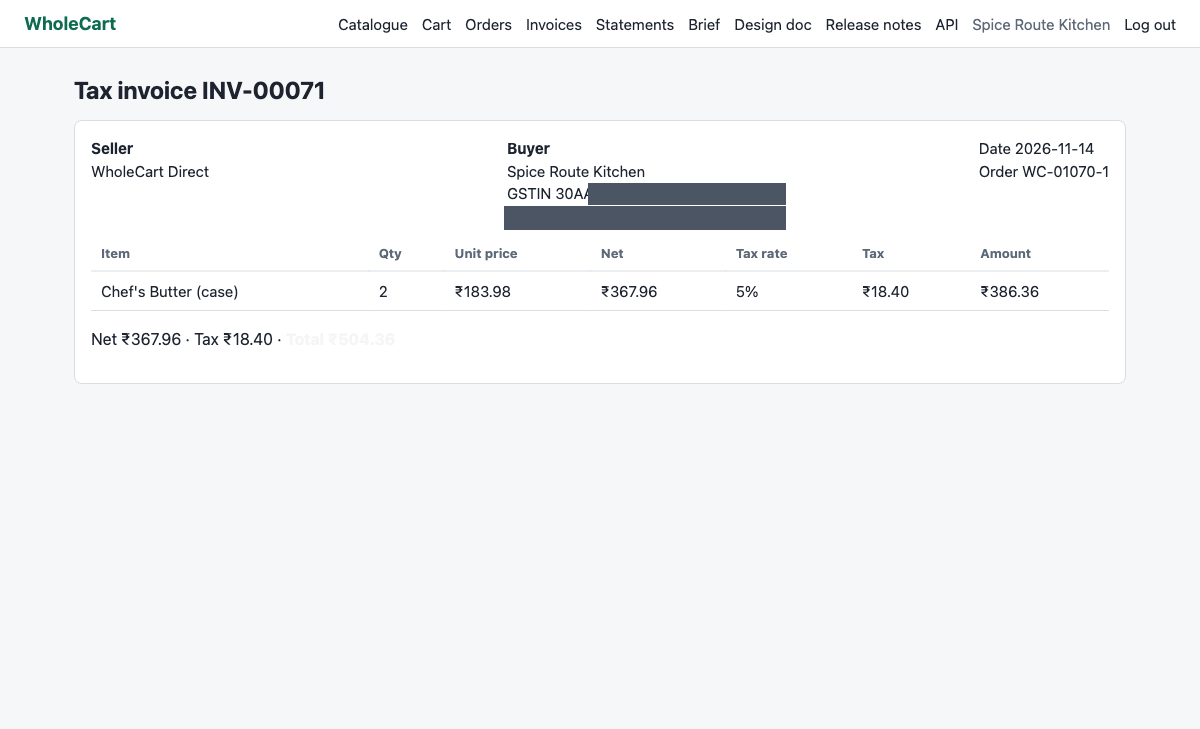
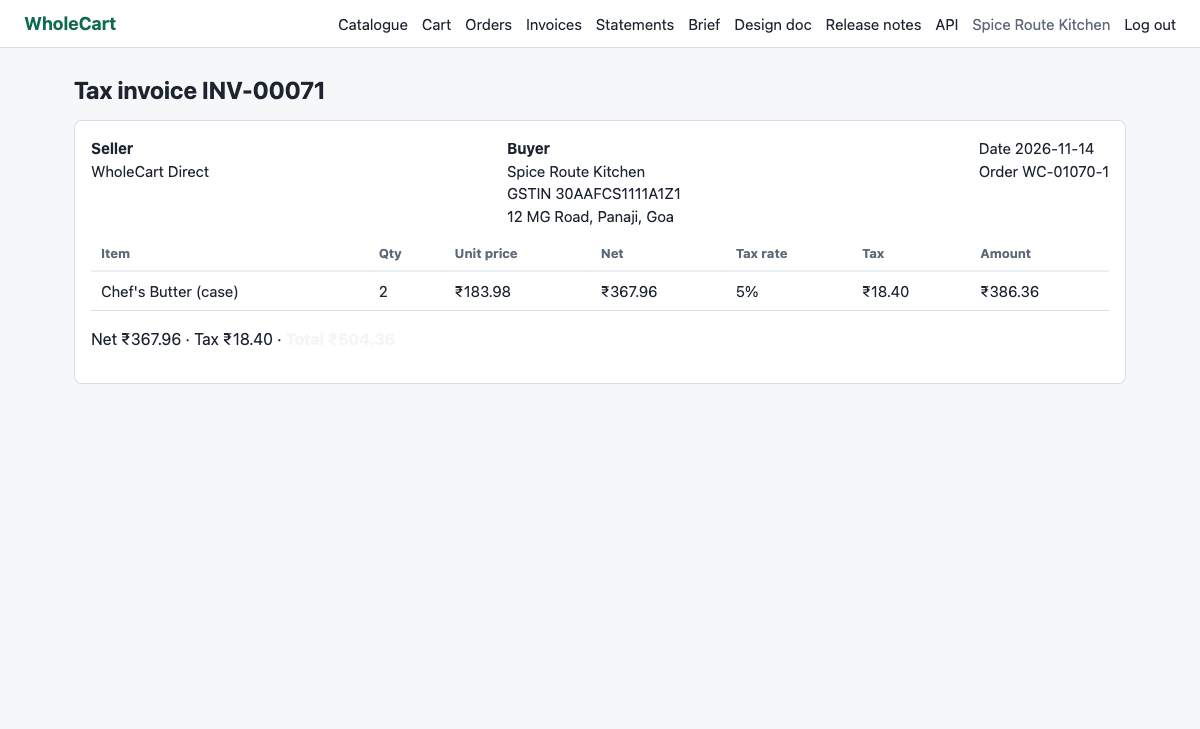
Restore invoice evidence and clarify place of supply

Changed region(s): [[0.4008, 0.2414, 0.6783, 0.332]]

diff --git a/docs/defect-log.md b/docs/defect-log.md
@@ -5,7 +5,7 @@ Seven defects are verified. Broader marketplace workflows remain partially untes
 ## Release-note checks executed
 
 - **CR-07 — Passed.** With the operator minimum at ₹2,000, a ₹1,999.99 net cart was rejected; ₹2,000.00 and ₹2,000.01 carts were accepted. Changing the setting to ₹2,000.01 immediately rejected a ₹2,000.00 cart; changing it to ₹1,999.99 immediately accepted that same net amount. Accepted orders WC-01067-1, WC-01068-1 and WC-01069-1 were cancelled. Original settings, product prices, and stock (161 pieces) were restored. Evidence: [CR-07 run log](../evidence/api-logs/CR-07-minimum-order-boundary.log).
-- **CR-09 — Failed.** Six invoices visible to buyer2 and buyer3 were checked through the API; all six omitted supply-type and place-of-supply fields. On the cross-state invoice INV-00005 / WC-01005-1, the buyer GSTIN begins `30` (Goa), while the seller GSTIN begins `27`. The signed change request requires “B2B” and “Goa (30)” as supply details. Neither line appears on the invoice screen or in the invoice API response. The screen also omits the seller GSTIN required by BR-19. Evidence: [invoice screenshot](../evidence/screenshots/CR-09-invoice-missing-supply-details.png), [invoice API response](../evidence/api-logs/CR-09-invoice-api-response.json), and [six-invoice API audit](../evidence/api-logs/CR-09-invoice-audit.json).
+- **CR-09 — Failed.** Six invoices visible to buyer2 and buyer3 were checked through the API; all six omitted supply-type and place-of-supply fields. On the cross-state invoice INV-00005 / WC-01005-1, the buyer and seller GSTINs have different state prefixes. The change request requires supply type B2B and the place-of-supply state name and code derived from the buyer GSTIN. Neither line appears on the invoice screen or in the invoice API response. The screen also omits the seller GSTIN required by BR-19. Evidence: [invoice screenshot](../evidence/screenshots/CR-09-invoice-missing-supply-details.png), [invoice API response](../evidence/api-logs/CR-09-invoice-api-response.json), and [six-invoice API audit](../evidence/api-logs/CR-09-invoice-audit.json).
 
 ## Reproducing the API findings
 
@@ -31,7 +31,7 @@ The test is expected to exit non-zero while WC-004, WC-005, or WC-006 reproduce.
 | WC-004 | S1 Blocker | BR-01 | Concurrent checkout oversells seller inventory | Seller1 product 1; stock set to 100; three buyers; same future 17:00 slot | 1. Set stock to 100. 2. Prepare buyer carts for 80, 20 and 30 pieces. 3. Submit the three `POST /api/orders` requests concurrently. 4. Read the resulting orders and seller stock. Repeat with quantities 100, 20 and 30 (100 represented as 8 cases plus 4 pieces due BR-03). | Checkout must atomically reserve no more than 100 pieces; later/losing orders must be rejected and stock must never go negative. | In the captured run, all checkouts returned HTTP 200. WC-01057-1 (80), WC-01059-1 (20), WC-01058-1 (30) reserved 130 and left stock `-30`. WC-01060-1 (100), WC-01062-1 (20), WC-01061-1 (30) reserved 150 and left stock `-50`. Reproduced in repeated runs. | [Captured API run](../evidence/api-logs/WC-004-WC-006-stock-idempotency-history.log); test cancellations returned inventory to 100 between scenarios and cleanup restored the original stock. | Open |
 | WC-005 | S1 Blocker | BR-10 | Concurrent duplicate checkout creates duplicate orders | Buyer1 cart with 20 pieces; same delivery date/slot; stock 100 | 1. Add 20 pieces to the cart. 2. Send two `POST /api/orders` requests concurrently with the same buyer, cart and slot. 3. Compare returned order IDs/numbers and buyer history. | A double-submit must create one order, not two. | Both requests returned HTTP 200 and created distinct orders WC-01063-1 and WC-01064-1 (order IDs 64 and 65). Both were subsequently cancelled during test cleanup. | [Captured API run](../evidence/api-logs/WC-004-WC-006-stock-idempotency-history.log) contains both `order_ids` and order numbers; cleanup restores stock. | Open |
 | WC-006 | S3 Major | BR-21 / API reliability | Buyer order-history endpoint intermittently returns HTTP 500 after concurrent checkouts | Same three-buyer stock scenarios as WC-004; immediately query each buyer's `GET /api/orders` after checkout | 1. Run the controlled three-buyer checkout race. 2. Immediately request `/api/orders` concurrently for buyer1, buyer2 and buyer3. 3. Repeat with the second quantity mix. | Each buyer should receive HTTP 200 and their own order history; transient checkout load must not produce server errors. | In the captured run, the 80/20/30 scenario returned history statuses `[500, 200, 200]`; the 100/20/30 scenario returned `[200, 500, 200]`. These correspond to buyer1 and buyer2 respectively. Recheck on subsequent runs because the failure is intermittent. | [Captured API run](../evidence/api-logs/WC-004-WC-006-stock-idempotency-history.log), `historyStatuses` fields. | Open |
-| WC-007 | S1 Blocker | CR-09, BR-19 | Tax invoice omits mandatory supply information and seller GSTIN on screen | Buyer2; delivered invoice INV-00005 / order WC-01005-1; buyer GSTIN state prefix 30 (Goa); seller GSTIN prefix 27 | 1. Sign in as buyer2. 2. Open Invoices and view INV-00005. 3. Compare the rendered invoice and `GET /api/invoices/5` with CR-09 and BR-19. 4. Check the API detail for all six invoices visible to buyer2/buyer3. | Invoice must show Supply type: B2B; Place of supply: Goa (30), derived from buyer GSTIN; and the seller's GSTIN. | UI invoice shows neither CR-09 line nor seller GSTIN. API response includes seller GSTIN in its seller object but has no supply-type or place-of-supply fields. All six audited invoice API responses omit both supply fields. CR-09 states invoices without its two required lines are not valid for input tax credit. | [Invoice screenshot](../evidence/screenshots/CR-09-invoice-missing-supply-details.png); [invoice API response](../evidence/api-logs/CR-09-invoice-api-response.json); [six-invoice API audit](../evidence/api-logs/CR-09-invoice-audit.json). | Open |
+| WC-007 | S1 Blocker | CR-09, BR-19 | Tax invoice omits mandatory supply information and seller GSTIN on screen | Buyer2; delivered invoice INV-00005 / order WC-01005-1; buyer and seller GSTINs with different state prefixes | 1. Sign in as buyer2. 2. Open Invoices and view INV-00005. 3. Compare the rendered invoice and `GET /api/invoices/5` with CR-09 and BR-19. 4. Check the API detail for all six invoices visible to buyer2/buyer3. | Invoice must show Supply type: B2B; place of supply with the state name and code derived from the buyer GSTIN; and the seller's GSTIN. | UI invoice shows neither CR-09 line nor seller GSTIN. API response includes seller GSTIN in its seller object but has no supply-type or place-of-supply fields. All six audited invoice API responses omit both supply fields. CR-09 states invoices without its two required lines are not valid for input tax credit. | [Invoice screenshot](../evidence/screenshots/CR-09-invoice-missing-supply-details.png); [invoice API response](../evidence/api-logs/CR-09-invoice-api-response.json); [six-invoice API audit](../evidence/api-logs/CR-09-invoice-audit.json). | Open |
 
 ## Severity guide
 

diff --git a/docs/test-cases.md b/docs/test-cases.md
@@ -13,7 +13,7 @@
 | Slots/order | Dates 0–7 days; time slots; capacity 5; same-day cutoff; order split/number; idempotency | BR-05–10 | Duplicate-submit test created two orders; order-history reads intermittently returned 500 after concurrent checkout. See WC-005/WC-006. Other checks need clock controls and stable fixtures. |
 | Lifecycle | Buyer/seller cancellation; 5-minute boundary; allowed transitions; return stock | BR-11–15 | Sequential 100-piece cancel/rebuy passed and stock was restored; other lifecycle checks require reserved order IDs and clock control |
 | Reorder/refund/exchange | Repeat reorder; delivered-only; full/partial quantities; tax-inclusive refund; no cash for exchange | BR-16–18 | Negative/zero/fractional/over-ordered partial quantities rejected; one valid partial amount checked and request rejected; full/exchange/approval behavior remains untested |
-| Invoice/statement | Delivery issue; supply details; tax and total reconciliation; delivered month minus approved refunds | CR-09, BR-19–20 | CR-09 failed on all 6 buyer2/buyer3 invoice API records; INV-00005 UI omits B2B, Goa (30), and seller GSTIN. Statement reconciliation remains untested. |
+| Invoice/statement | Delivery issue; supply details; tax and total reconciliation; delivered month minus approved refunds | CR-09, BR-19–20 | CR-09 failed on all 6 buyer2/buyer3 invoice API records; INV-00005 UI omits B2B, place of supply, and seller GSTIN. Statement reconciliation remains untested. |
 | Seller/operator | Seller screens, product/stock, seller approval, settings, export columns/status scope | IF-02, BR-23, §5.5 | Read-only role smoke automated; mutation/export assertions require setup |
 | CSV/partner API | Valid/invalid row reporting; SKU upsert; pagination exactly once; offer updates | IF-01, IF-03 | Missing partner key skips relevant test; import/updates are specified but not executed |
 | Nonfunctional | 30-buyer checkout p95 ≤3s; search p95 ≤2s; >50 RPS returns 429 | NF-01–03 | Checkout load runner included; search and over-limit tests are intentionally not generated |
@@ -50,7 +50,7 @@
 | REF-02 | P1 | Full refund, partial quantities and over-ordered quantity on same line; approve/reject each. | Full includes all lines; partial is chosen lines/qty; aggregate refund/exchange qty never exceeds ordered qty. | BR-17, BR-18 |
 | REF-03 | P1 | Refund quantities at 5% and 18%; exchange same quantities. | Refund includes paid tax; exchange replaces goods and returns no money. | BR-18 |
 | INV-01 | P1 | Deliver an order with both rates and fee; compare invoice to checkout. | Issued on delivery; seller/buyer GSTIN/address, all lines, fee line, per-rate taxes, total = order total. | BR-07–08, BR-19 |
-| INV-02 | P1 | Inspect all buyer2/buyer3 invoices via API and delivered invoice INV-00005 (buyer GSTIN prefix 30, seller prefix 27) in UI. | “B2B” and “Goa (30)” from buyer GSTIN must be shown; seller GSTIN must appear per BR-19. | CR-09, BR-19 |
+| INV-02 | P1 | Inspect all buyer2/buyer3 invoices via API and delivered invoice INV-00005 (buyer GSTIN prefix 30, seller prefix 27) in UI. | Supply type B2B and the state name and code derived from the buyer GSTIN must be shown; seller GSTIN must appear per BR-19. | CR-09, BR-19 |
 | STMT-01 | P1 | Query statement for a month with delivered, cancelled, and approved-refund orders. | Delivered orders in month less approved refunds; cancelled excluded; amount reconciles. | BR-20 |
 | SELL-01 | P1 | As each seller, list/read another seller's order and mutate its product/order. | Other seller data/action inaccessible. | BR-21 |
 | CSV-01 | P1 | Import valid UTF-8 sample; then update existing SKU and import duplicate SKU across sellers. | Valid rows imported/updated by seller-scoped SKU; other seller not overwritten. | IF-01 |

diff --git a/test-scenarios/requirement-coverage.md b/test-scenarios/requirement-coverage.md
@@ -40,7 +40,7 @@ The UI case sheet contains **115 cases: 26 PASS, 19 FAIL, 18 PARTIAL, 3 SKIPPED,
 | BR-16 — Reorder adds every past-order line on every use | PASS | ORD-12; [repeat reorder](../evidence/screenshots/ORD-12-repeat-reorder-doubles-quantity.png) | Two reorder actions for a 16-piece line resulted in 32 pieces; other historical multi-line cases were not tested. |
 | BR-17 — Delivered-only refunds/exchanges and per-line quantity cap | PARTIAL | REF-01 through REF-10; [excess quantity rejected](../evidence/screenshots/REF-03-excess-quantity-rejected.png) | The UI rejected refund quantity 3 for a 2-piece order line; valid refund/exchange requests and seller decisions were not exercised |
 | BR-18 — Tax-inclusive refunds; exchange returns no money; seller decision | NOT RUN | REF-01 through REF-10 | No refund/exchange UI approval, rejection, replacement, or payment flow verified |
-| BR-19 — Invoice identity, lines, taxes, fee, total | FAIL | INV-02 through INV-05 and INV-CR09-STATE; [defect log](../defect-reports/defect-log.md) | Arithmetic and total reconciliation passed for two invoices; B2B, Goa (30), seller GSTIN, and separate fee line are missing |
+| BR-19 — Invoice identity, lines, taxes, fee, total | FAIL | INV-02 through INV-05 and INV-CR09-STATE; [defect log](../defect-reports/defect-log.md) | Arithmetic and total reconciliation passed for two invoices; B2B, place of supply, seller GSTIN, and separate fee line are missing |
 | BR-20 — Monthly delivered-order statement less approved refunds | FAIL | INV-06 through INV-09; [November statement](../evidence/screenshots/INV-06-statement-includes-canceled-orders.png) | November statement included canceled orders and their amounts; refund deduction and month-boundary behavior remain unverified |
 | BR-21 — Buyers/sellers see only their own records | PARTIAL | AUTH-01, AUTH-04 through AUTH-06, ORD-02, INV-10 | Buyer/seller/operator logins were observed for three roles; cross-account order/invoice/statement visibility was not tested through UI |
 | BR-22 — Catalogue prices exclude tax; checkout shows per-seller tax/fee | PARTIAL | CAT-04, CHK-02/CHK-03; [two-seller checkout](../evidence/screenshots/CHK-02-two-seller-total-above-min-one-below.png) | The two-seller summary showed net, tax, delivery, and totals; it incorrectly waived fee after OPS-14 expiry. Catalogue product detail price-before-tax behavior was not independently checked. |

diff --git a/defect-reports/defect-log.md b/defect-reports/defect-log.md
@@ -29,10 +29,10 @@
 
 - **Severity:** S1 Blocker
 - **Requirements:** CR-09, BR-19, screen 5.4 Invoice
-- **Preconditions/data:** Delivered invoices INV-00005, INV-00071, and INV-00073; buyer GSTIN prefix 30 (Goa).
+- **Preconditions/data:** Delivered invoices INV-00005, INV-00071, and INV-00073; use the buyer GSTIN to determine the expected state name and code.
 - **Steps:** Open the delivered invoices in the buyer UI. Inspect seller identity, supply details, buyer details, line items, tax, fee, and total.
-- **Expected:** Show supply type B2B, Place of supply Goa (30), seller GSTIN, buyer name/GSTIN/address, all lines, tax by rate, a separate delivery-fee line, and a total matching the order.
-- **Actual:** The UI omits B2B, Place of supply Goa (30), seller GSTIN, and the separate delivery-fee line. For INV-00071 and INV-00073 the displayed invoice totals still match their order totals: ₹504.36 and ₹2,950.00.
+- **Expected:** Show supply type B2B, the place-of-supply state name and code derived from the buyer GSTIN, seller GSTIN, buyer name/GSTIN/address, all lines, tax by rate, a separate delivery-fee line, and a total matching the order.
+- **Actual:** The UI omits the supply type, place of supply, seller GSTIN, and the separate delivery-fee line. For INV-00071 and INV-00073 the displayed invoice totals still match their order totals: ₹504.36 and ₹2,950.00.
 - **Evidence:** [INV-00005 screenshot](../evidence/screenshots/CR-09-invoice-missing-supply-details.png), [INV-00073 CR-09 screenshot](../evidence/screenshots/INV-00073-CR09-invoice-missing-fields.png), [INV-00071 calculation](../evidence/screenshots/INV-00071-invoice-ui-calculation.png), and [INV-00073 calculation](../evidence/screenshots/INV-00073-invoice-ui-calculation.png). Cases INV-02, INV-04, INV-05, and INV-CR09-STATE.
 
 ## WC-008 — Blank login fields show raw validation response

diff --git a/evidence/recordings/README.md b/evidence/recordings/README.md
@@ -5,7 +5,7 @@ Record the assigned demo in your own voice. Use captured evidence for inventory 
 - **0:00–0:25** · Introduce the assigned demo, roles and hold recommendation.
 - **0:25–1:40** · Open buyer catalogue and cart. Show the stock shown in the captured UI and how checkout still accepted 201 pieces from 161 available. Explain the separate API race result and its negative stock. [UI triage](../../defect-reports/triage/CART-09.md) · [API triage](../../defect-reports/triage/API-STOCK-RACE.md)
 - **1:40–2:55** · Show the two-seller checkout evidence. The combined net was ₹3,643.20, but the FreshFarm sub-order was only ₹993.60 against the ₹2,000 per-seller minimum. [Triage](../../defect-reports/triage/CHK-02.md)
-- **2:55–4:10** · Open the invoice page and show where supply type and place of supply should appear. For the Goa fixture, explain the expected B2B and Goa (30) lines. [Triage](../../defect-reports/triage/INV-CR09-STATE.md)
+- **2:55–4:10** · Open the invoice page and show where supply type and place of supply should appear. Explain that the invoice should show B2B as the supply type and the state name and code derived from the buyer’s GSTIN as the place of supply. [Triage](../../defect-reports/triage/INV-CR09-STATE.md)
 - **4:10–5:00** · Show an exact SKU search and a partial-name search. Explain how the AI-assisted draft still called search broken and how the later retest and case sheet exposed the stale conclusion. End with the release decision. [AI correction](../../ai-usage/sessions.md)
 
 Save the finished recording as `wholecart-walkthrough.mp4` in this folder or add its reviewer-accessible link here.

diff --git a/README.md b/README.md
@@ -2,7 +2,7 @@
 
 **Release recommendation · Hold.** Checkout can oversell inventory and create duplicate orders. The buyer UI also accepted a seller subtotal below the approved minimum, and invoices omit required supply information.
 
-Published evidence masks fixture credentials and invoice identifiers. Testing was recorded on the assigned WholeCart demo on 14 November 2026. Of 115 UI cases, 26 passed, 19 failed, 18 were partial, 3 were skipped, 48 were not run, and 1 was superseded. The focused API results and historical findings are documented in the release report.
+Testing was recorded on the assigned WholeCart demo on 14 November 2026. Of 115 UI cases, 26 passed, 19 failed, 18 were partial, 3 were skipped, 48 were not run, and 1 was superseded. The focused API results and historical findings are documented in the release report.
 
 ## Submission
 

diff --git a/defect-reports/triage/INV-CR09-STATE.md b/defect-reports/triage/INV-CR09-STATE.md
@@ -8,17 +8,17 @@
 
 ## Reproduce
 
-**Data and setup** · Delivered invoice INV-00073; buyer GSTIN prefix 30; buyer address in Goa
+**Data and setup** · Delivered invoice INV-00073; buyer GSTIN with a known state prefix
 
 Open invoice INV-00073 and compare the displayed place of supply with the buyer GSTIN prefix.
 
 ## Expected
 
-Show Place of supply: Goa (30), derived from GSTIN state code 30.
+Show the place-of-supply state name and code derived from the buyer GSTIN.
 
 ## Observed
 
-Buyer GSTIN prefix 30 and Goa address were visible, but the invoice did not show Place of supply: Goa (30).
+The buyer GSTIN and address were visible, but the invoice did not show the place of supply.
 
 Required supply state name and code are absent from the invoice UI.
 
